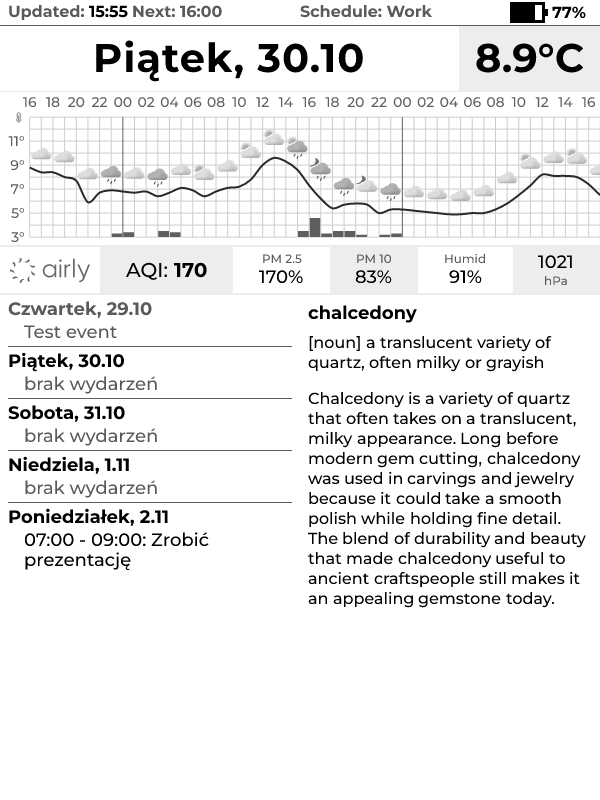
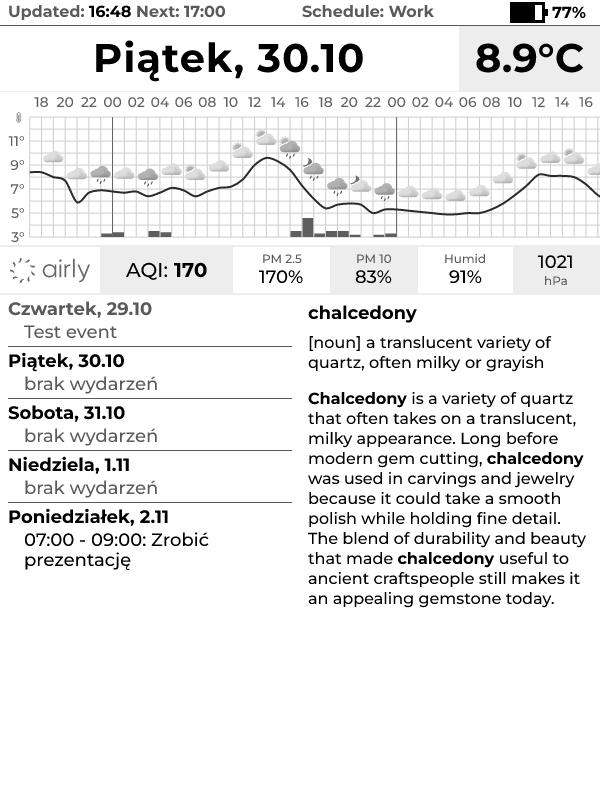
fix: restore bold and italic in the word of the day explanation
The migration to satori flattened dictionary.com's HTML to plain text,
dropping the <b> around the word. Parse the explanation into text spans
with bold/italic flags and render them inline (display: block lets
satori flow spans like a browser). Regenerate the README sample image.

diff --git a/src/data/html-text-spans.ts b/src/data/html-text-spans.ts
@@ -1,0 +1,68 @@
+import { HTMLElement, type Node, TextNode } from "node-html-parser";
+
+import type { TextSpan } from "../types.ts";
+
+type SpanFormat = Omit<TextSpan, "text">;
+
+const BOLD_TAGS = new Set(["b", "strong"]);
+const ITALIC_TAGS = new Set(["i", "em"]);
+
+/**
+ * Flattens an element's inline HTML (<b>, <strong>, <i>, <em>) into text
+ * spans with formatting flags. Other tags keep only their text. Whitespace
+ * is collapsed like in a browser and neighbouring spans with the same
+ * formatting are merged.
+ */
+export function htmlToTextSpans(element: HTMLElement): TextSpan[] {
+  const spans = mergeSameFormat(collectSpans(element, {}));
+
+  return trimEdges(spans).filter((span) => span.text.length > 0);
+}
+
+function collectSpans(node: Node, format: SpanFormat): TextSpan[] {
+  if (node instanceof TextNode) {
+    return [{ text: node.text.replace(/\s+/g, " "), ...format }];
+  }
+
+  if (!(node instanceof HTMLElement)) {
+    return [];
+  }
+
+  const tag = node.tagName?.toLowerCase() ?? "";
+  const childFormat: SpanFormat = {
+    ...format,
+    ...(BOLD_TAGS.has(tag) && { bold: true }),
+    ...(ITALIC_TAGS.has(tag) && { italic: true }),
+  };
+
+  return node.childNodes.flatMap((child) => collectSpans(child, childFormat));
+}
+
+function mergeSameFormat(spans: TextSpan[]): TextSpan[] {
+  return spans.reduce<TextSpan[]>((merged, span) => {
+    const previous = merged.at(-1);
+
+    if (previous && hasSameFormat(previous, span)) {
+      return [...merged.slice(0, -1), { ...previous, text: previous.text + span.text }];
+    }
+
+    return [...merged, span];
+  }, []);
+}
+
+function hasSameFormat(a: TextSpan, b: TextSpan): boolean {
+  return Boolean(a.bold) === Boolean(b.bold) && Boolean(a.italic) === Boolean(b.italic);
+}
+
+function trimEdges(spans: TextSpan[]): TextSpan[] {
+  return spans.map((span, index) => {
+    const isFirst = index === 0;
+    const isLast = index === spans.length - 1;
+    let text = span.text;
+
+    if (isFirst) text = text.trimStart();
+    if (isLast) text = text.trimEnd();
+
+    return { ...span, text };
+  });
+}

diff --git a/src/render/components/word-of-the-day.ts b/src/render/components/word-of-the-day.ts
@@ -1,4 +1,8 @@
-import type { WordOfTheDayData, WordOfTheDayError } from "../../types.ts";
+import type {
+  TextSpan,
+  WordOfTheDayData,
+  WordOfTheDayError,
+} from "../../types.ts";
 import { html } from "../html.ts";
 import { FONT_WEIGHT } from "../theme.ts";
 
@@ -31,7 +35,27 @@ export function WordOfTheDay({ wordOfTheDay }: WordOfTheDayProps) {
         ${word}
       </div>
       <div style=${PARAGRAPH_STYLE}>${definitionLine}</div>
-      ${explanation && html`<div style=${PARAGRAPH_STYLE}>${explanation}</div>`}
+      ${explanation && FormattedParagraph(explanation)}
+    </div>
+  `;
+}
+
+/** `display: block` makes satori flow the spans inline, like a browser. */
+function FormattedParagraph(spans: TextSpan[]) {
+  return html`
+    <div style=${{ display: "block", margin: "8px 0" }}>
+      ${spans.map(
+        (span, index) =>
+          html`<span
+            key=${index}
+            style=${{
+              fontWeight: span.bold ? FONT_WEIGHT.bold : FONT_WEIGHT.regular,
+              fontStyle: span.italic ? "italic" : "normal",
+            }}
+          >
+            ${span.text}
+          </span>`
+      )}
     </div>
   `;
 }

diff --git a/src/data/dictionary-com.ts b/src/data/dictionary-com.ts
@@ -1,6 +1,7 @@
 import axios from "axios";
 import { parse } from "node-html-parser";
 import type { WordOfTheDayData, WordOfTheDayError } from "../types.ts";
+import { htmlToTextSpans } from "./html-text-spans.ts";
 
 const WORD_OF_THE_DAY_URL = "https://www.dictionary.com/word-of-the-day";
 const HTTP_STATUS_OK = 200;
@@ -31,12 +32,18 @@ export async function getWordOfTheDay(): Promise<
     return wordOfTheDayError("Failed to parse the definition.");
   }
 
+  const explanationParagraph = container?.querySelector(
+    ".wotd-entry-explanation-section p"
+  );
+
   return {
     type: "data",
     word,
     partOfSpeech: textOf(".wotd-entry-pos"),
     definition,
-    explanation: textOf(".wotd-entry-explanation-section p"),
+    explanation: explanationParagraph
+      ? htmlToTextSpans(explanationParagraph)
+      : undefined,
   };
 }
 

diff --git a/src/types.ts b/src/types.ts
@@ -67,12 +67,19 @@ export type AirlyError = {
   error: string;
 };
 
+/** A run of text with the same inline formatting. */
+export type TextSpan = {
+  text: string;
+  bold?: boolean;
+  italic?: boolean;
+};
+
 export type WordOfTheDayData = {
   type: "data";
   word: string;
   partOfSpeech?: string;
   definition: string;
-  explanation?: string;
+  explanation?: TextSpan[];
 };
 
 export type WordOfTheDayError = {
